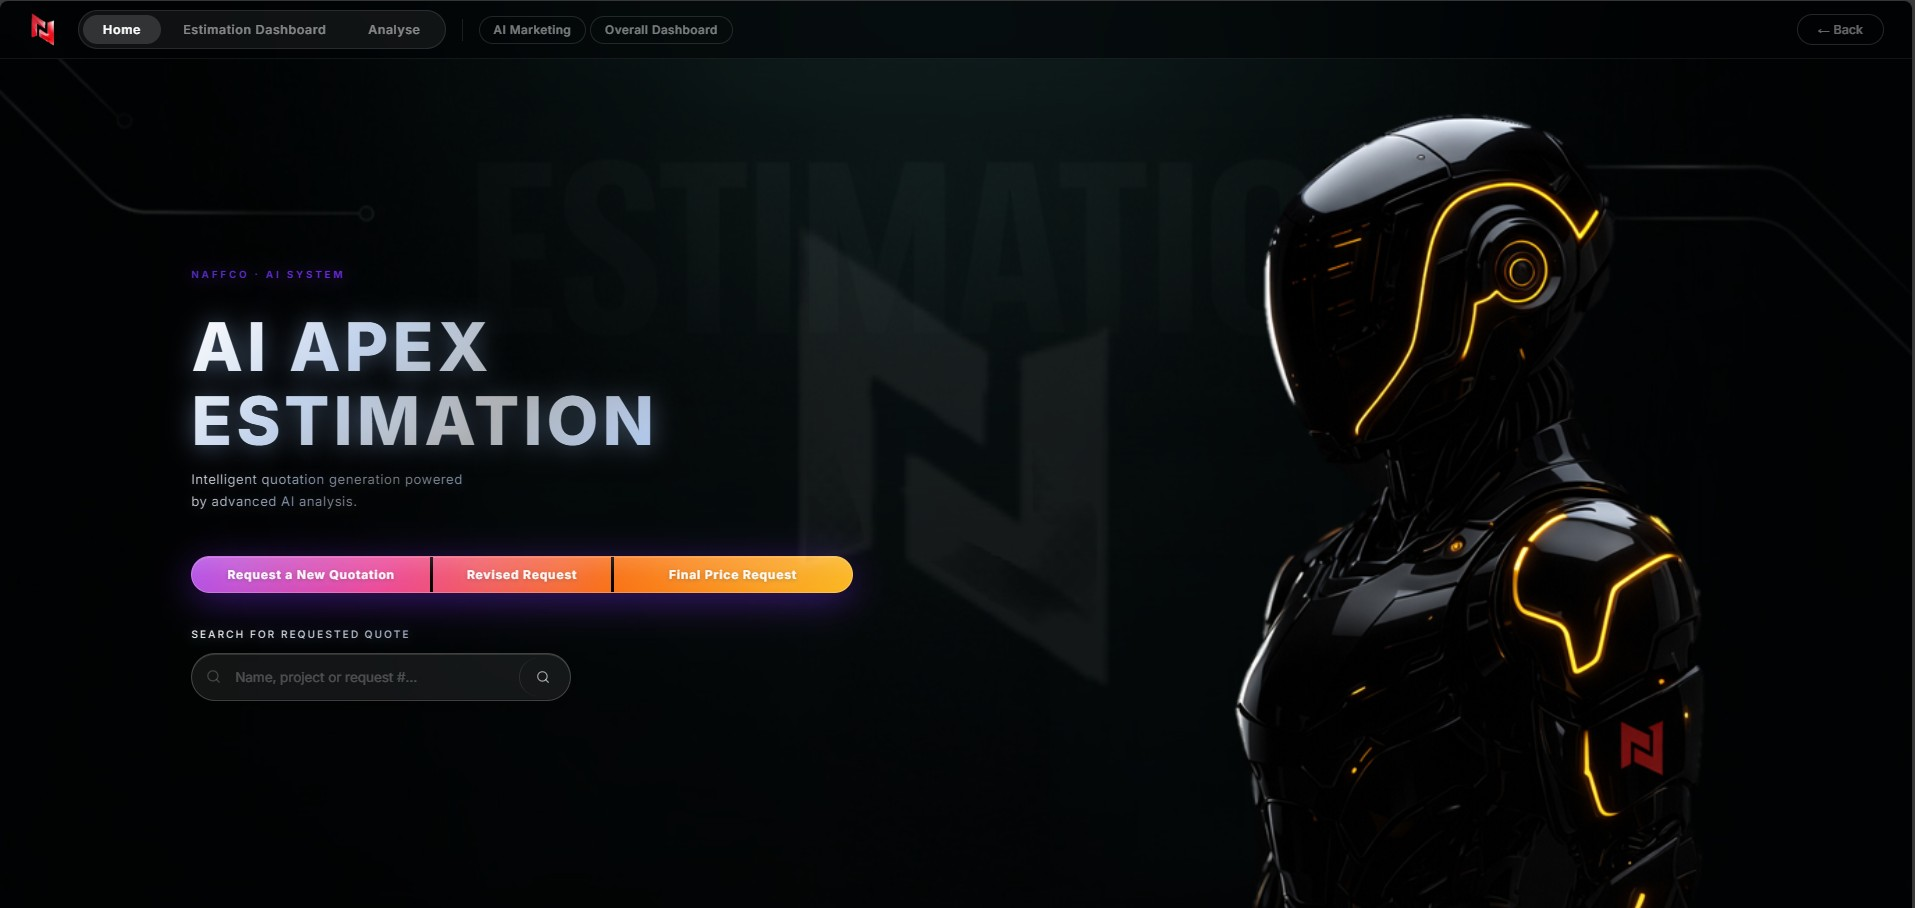
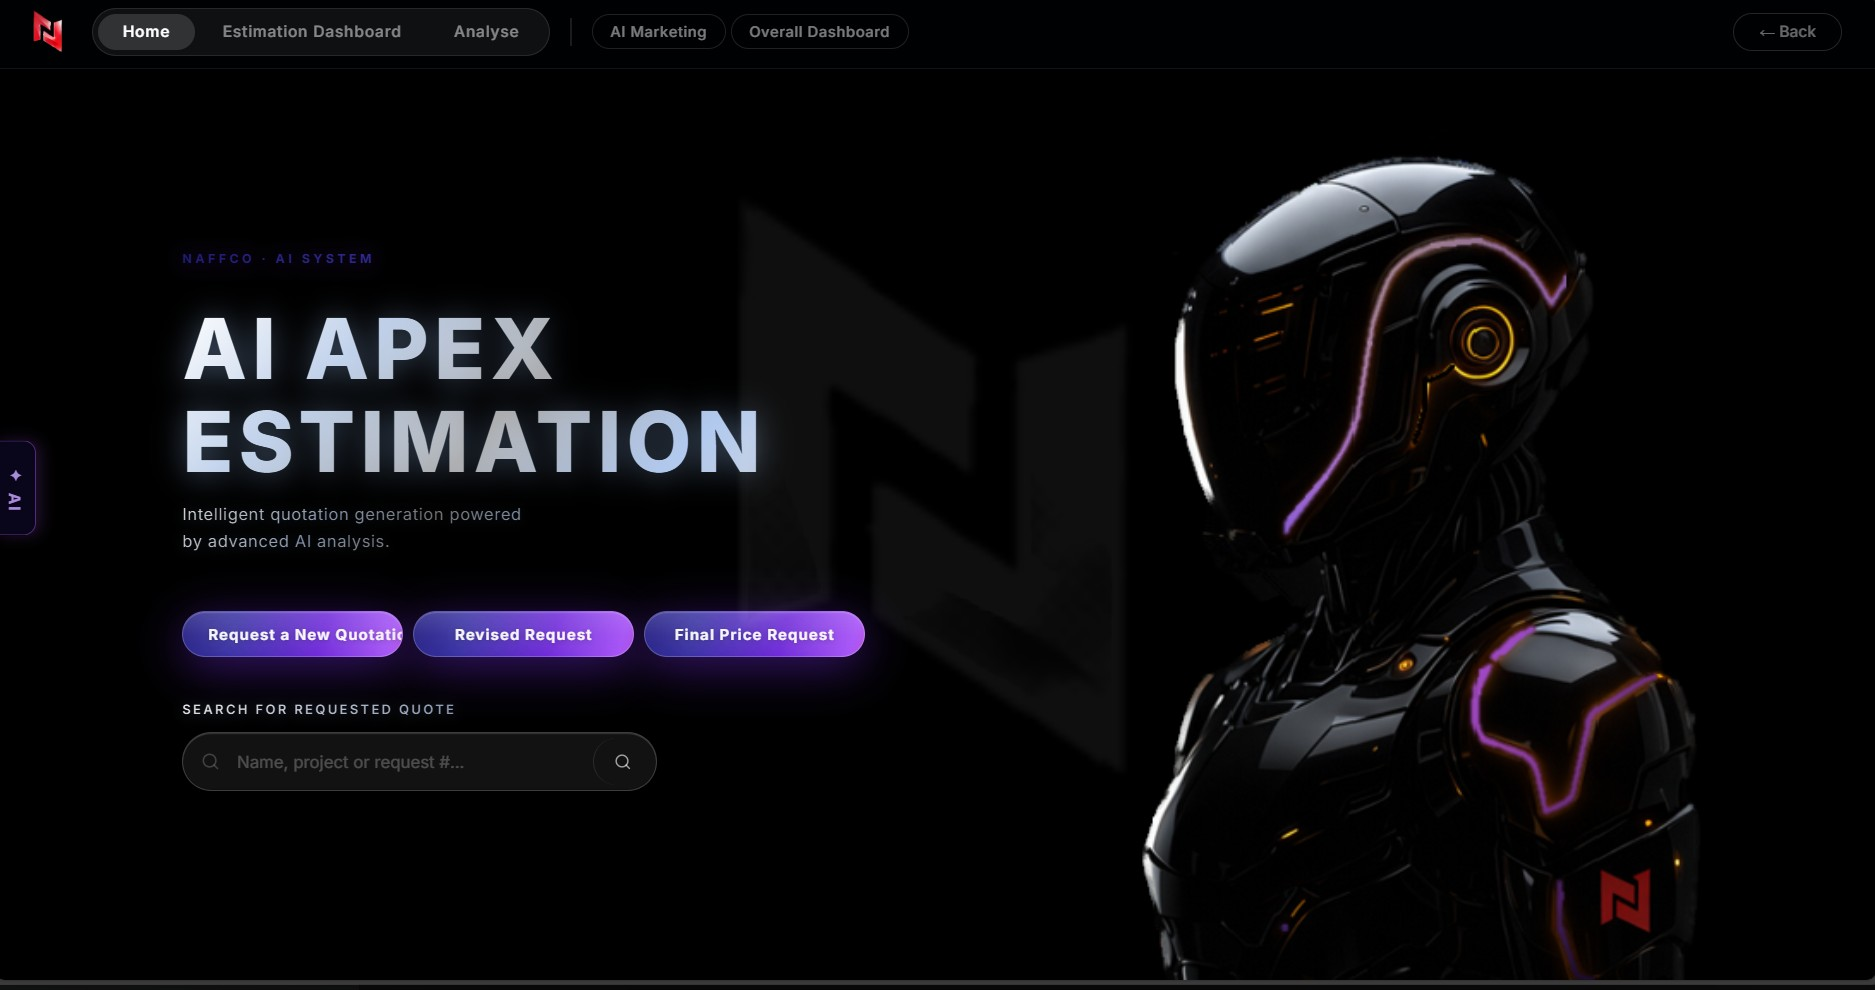
Integrated custom AI tool UI

diff --git a/src/pages/Estimator.jsx b/src/pages/Estimator.jsx
@@ -1,101 +1,66 @@
-const F = "'Inter',sans-serif";
-const SITE_URL = 'https://ais-dev-e3o6rlu64mseqvoodbtsco-250550132737.europe-west2.run.app';
+import { useState } from 'react';
+import { GoogleGenerativeAI } from "@google/generative-ai";
 
-export default function Estimator({ onClose }) {
+// This pulls the key from your .env file automatically
+const genAI = new GoogleGenerativeAI(import.meta.env.VITE_GEMINI_KEY);
+const model = genAI.getGenerativeModel({ model: "gemini-1.5-flash" });
+
+export default function GeminiChat() {
+  const [input, setInput] = useState('');
+  const [response, setResponse] = useState('');
+  const [loading, setLoading] = useState(false);
+
+  const handleSubmit = async (e) => {
+    e.preventDefault();
+    if (!input.trim()) return;
+    
+    setLoading(true);
+    try {
+      const result = await model.generateContent(input);
+      setResponse(result.response.text());
+    } catch (error) {
+      console.error(error);
+      setResponse("Error: Could not connect to the AI tool.");
+    }
+    setLoading(false);
+  };
+
   return (
-    /* ── Frosted glass overlay ── */
-    <div
-      onClick={onClose}
-      style={{
-        position:'fixed', inset:0, zIndex:8000,
-        background:'rgba(5,3,20,0.55)',
-        backdropFilter:'blur(18px) saturate(160%)',
-        WebkitBackdropFilter:'blur(18px) saturate(160%)',
-        display:'flex', alignItems:'center', justifyContent:'center',
-        animation:'apexFadeUp 0.22s ease both',
-        fontFamily: F,
-      }}
-    >
-      <style>{`
-        @keyframes apexFadeUp { from{opacity:0;transform:translateY(14px)} to{opacity:1;transform:translateY(0)} }
-        @keyframes apexAurora { 0%{background-position:0% 50%} 50%{background-position:100% 50%} 100%{background-position:0% 50%} }
-      `}</style>
+    <div style={{ padding: '20px', maxWidth: '800px', margin: 'auto', fontFamily: 'sans-serif' }}>
+      <div style={{ border: '1px solid #ddd', borderRadius: '12px', padding: '20px', boxShadow: '0 4px 6px rgba(0,0,0,0.1)' }}>
+        <h3 style={{ marginTop: 0 }}>Custom AI Workspace</h3>
+        
+        <form onSubmit={handleSubmit}>
+          <textarea 
+            value={input} 
+            onChange={(e) => setInput(e.target.value)}
+            placeholder="Enter your query here..."
+            style={{ width: '100%', height: '120px', padding: '12px', borderRadius: '8px', border: '1px solid #ccc', boxSizing: 'border-box' }}
+          />
+          <button 
+            type="submit" 
+            disabled={loading}
+            style={{ 
+              marginTop: '15px', 
+              padding: '10px 25px', 
+              backgroundColor: loading ? '#ccc' : '#007bff', 
+              color: 'white', 
+              border: 'none', 
+              borderRadius: '5px', 
+              cursor: 'pointer',
+              fontWeight: 'bold'
+            }}
+          >
+            {loading ? 'Processing...' : 'Execute Tool'}
+          </button>
+        </form>
 
-      {/* ── Glass card ── */}
-      <div
-        onClick={e => e.stopPropagation()}
-        style={{
-          width:'min(1200px,96vw)', height:'min(820px,92vh)',
-          display:'flex', flexDirection:'column',
-          background:'rgba(255,255,255,0.08)',
-          backdropFilter:'blur(28px) saturate(180%)',
-          WebkitBackdropFilter:'blur(28px) saturate(180%)',
-          borderRadius:24,
-          border:'1px solid rgba(255,255,255,0.18)',
-          boxShadow:'0 8px 48px rgba(31,38,135,0.50), inset 0 1px 0 rgba(255,255,255,0.12)',
-          overflow:'hidden',
-          position:'relative',
-        }}
-      >
-        {/* Aurora accent line */}
-        <div style={{
-          position:'absolute', top:0, left:0, right:0, height:2,
-          background:'linear-gradient(90deg,#6d28d9,#a855f7,#ec4899,#f97316,#fbbf24)',
-          backgroundSize:'200% 100%',
-          animation:'apexAurora 5s ease-in-out infinite',
-          pointerEvents:'none', zIndex:2,
-        }}/>
-
-        {/* ── Header ── */}
-        <div style={{
-          display:'flex', alignItems:'center', gap:12,
-          padding:'14px 24px',
-          borderBottom:'1px solid rgba(255,255,255,0.10)',
-          flexShrink:0, position:'relative', zIndex:1,
-        }}>
-          <div style={{
-            width:9, height:9, borderRadius:'50%',
-            background:'linear-gradient(135deg,#a855f7,#ec4899)',
-            boxShadow:'0 0 12px rgba(168,85,247,0.90)',
-            flexShrink:0,
-          }}/>
-          <span style={{fontSize:'1rem',fontWeight:700,color:'rgba(255,255,255,0.95)',letterSpacing:'0.03em'}}>
-            APEX AI
-          </span>
-          <span style={{fontSize:'0.58rem',color:'rgba(255,255,255,0.28)',letterSpacing:'0.14em',textTransform:'uppercase'}}>
-            Intelligent Assistant
-          </span>
-          <div style={{marginLeft:'auto',display:'flex',alignItems:'center',gap:12}}>
-            <span style={{fontSize:'0.62rem',color:'rgba(52,211,153,0.85)',letterSpacing:'0.08em'}}>
-              ● Connected
-            </span>
-            <button
-              onClick={onClose}
-              style={{
-                background:'rgba(255,255,255,0.08)', border:'1px solid rgba(255,255,255,0.14)',
-                borderRadius:8, color:'rgba(255,255,255,0.50)', fontFamily:F,
-                width:30, height:30, display:'flex', alignItems:'center', justifyContent:'center',
-                cursor:'pointer', outline:'none', transition:'all 0.15s',
-              }}
-              onMouseEnter={e=>{e.currentTarget.style.background='rgba(255,255,255,0.18)';e.currentTarget.style.color='#fff';}}
-              onMouseLeave={e=>{e.currentTarget.style.background='rgba(255,255,255,0.08)';e.currentTarget.style.color='rgba(255,255,255,0.50)';}}
-            >✕</button>
+        {response && (
+          <div style={{ marginTop: '25px', padding: '15px', backgroundColor: '#f9f9f9', borderRadius: '8px', borderLeft: '5px solid #007bff' }}>
+            <h4 style={{ marginTop: 0 }}>Output:</h4>
+            <p style={{ whiteSpace: 'pre-wrap', lineHeight: '1.5' }}>{response}</p>
           </div>
-        </div>
-
-        {/* ── Embedded website ── */}
-        <iframe
-          src={SITE_URL}
-          title="Apex AI Tool"
-          style={{
-            flex:1,
-            width:'100%',
-            border:'none',
-            display:'block',
-            borderRadius:'0 0 24px 24px',
-          }}
-          allow="camera; microphone; clipboard-read; clipboard-write"
-        />
+        )}
       </div>
     </div>
   );